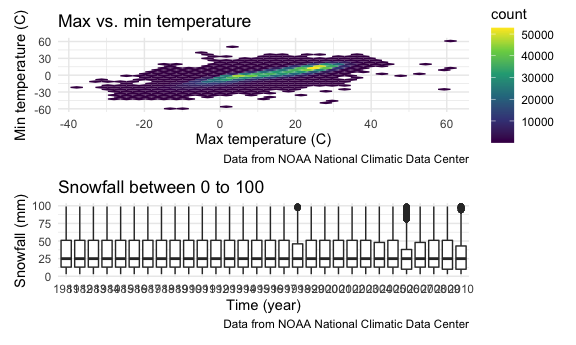
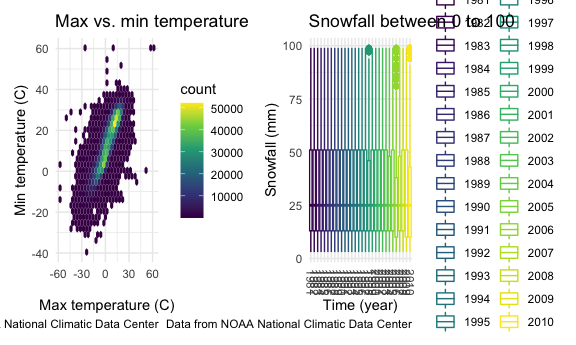
changes to the plots

diff --git a/p8105_hw3_jz3297.md b/p8105_hw3_jz3297.md
@@ -29,7 +29,7 @@ knitr::opts_chunk$set(
   out.width = "90%"
 )
 
-theme_set(theme_minimal() + theme(legend.position = "right"))
+theme_set(theme_minimal() + theme(legend.position = "bottom"))
           
 options(
   ggplot2.continuous.colour = "viridis",
@@ -194,26 +194,77 @@ counts columns. It has a total of 50400 rows and 7 columns.
 
 ``` r
 accel_df %>%
-  group_by(day) %>%
+  group_by(day_id) %>%
   summarize(total_activity = sum(activity_counts)) %>%
-  arrange(desc(total_activity)) %>%
   knitr::kable()
 ```
 
     ## `summarise()` ungrouping output (override with `.groups` argument)
 
-| day       | total\_activity |
-| :-------- | --------------: |
-| Friday    |         2291711 |
-| Wednesday |         2129772 |
-| Thursday  |         2091151 |
-| Sunday    |         1919213 |
-| Monday    |         1858699 |
-| Tuesday   |         1799238 |
-| Saturday  |         1369237 |
+| day\_id | total\_activity |
+| ------: | --------------: |
+|       1 |       480542.62 |
+|       2 |        78828.07 |
+|       3 |       376254.00 |
+|       4 |       631105.00 |
+|       5 |       355923.64 |
+|       6 |       307094.24 |
+|       7 |       340115.01 |
+|       8 |       568839.00 |
+|       9 |       295431.00 |
+|      10 |       607175.00 |
+|      11 |       422018.00 |
+|      12 |       474048.00 |
+|      13 |       423245.00 |
+|      14 |       440962.00 |
+|      15 |       467420.00 |
+|      16 |       685910.00 |
+|      17 |       382928.00 |
+|      18 |       467052.00 |
+|      19 |       371230.00 |
+|      20 |       381507.00 |
+|      21 |       468869.00 |
+|      22 |       154049.00 |
+|      23 |       409450.00 |
+|      24 |         1440.00 |
+|      25 |       260617.00 |
+|      26 |       340291.00 |
+|      27 |       319568.00 |
+|      28 |       434460.00 |
+|      29 |       620860.00 |
+|      30 |       389080.00 |
+|      31 |         1440.00 |
+|      32 |       138421.00 |
+|      33 |       549658.00 |
+|      34 |       367824.00 |
+|      35 |       445366.00 |
 
-The participant had more activity counts for Friday, Wednesday, and
-Thursday.
+``` r
+accel_df %>%
+  group_by(day_id) %>%
+  summarize(total_activity = sum(activity_counts)) %>%
+  arrange(desc(total_activity))
+```
+
+    ## `summarise()` ungrouping output (override with `.groups` argument)
+
+    ## # A tibble: 35 x 2
+    ##    day_id total_activity
+    ##     <dbl>          <dbl>
+    ##  1     16        685910 
+    ##  2      4        631105 
+    ##  3     29        620860 
+    ##  4     10        607175 
+    ##  5      8        568839 
+    ##  6     33        549658 
+    ##  7      1        480543.
+    ##  8     12        474048 
+    ##  9     21        468869 
+    ## 10     15        467420 
+    ## # … with 25 more rows
+
+The participant had the most activity counts on the 16th day and the
+least activity counts on the 31st day.
 
 <br />
 
@@ -221,27 +272,30 @@ Thursday.
 
 ``` r
 accel_df %>%
-  group_by(day, week) %>%
-  summarize(mean_activity_day = mean(activity_counts)) %>%
-  ggplot(aes(x = day, y = mean_activity_day, color = day)) +
-  geom_point() +
-  stat_summary(fun = "mean", color = "red", alpha = 0.6, size = 0.5) +
+  mutate(
+    day = forcats::fct_relevel(day, c("Sunday", "Monday", "Tuesday", "Wednesday", "Thursday", "Friday", "Saturday"))
+    ) %>%
+  group_by(day, minute) %>%
+  ggplot(aes(x = minute, y = activity_counts, color = day)) +
+  geom_point(alpha = 0.15, size = 0.1) +
+  geom_smooth(se = FALSE, size = 0.7) +
   labs(
-    title = "24-hour Activity Plot",
-    x = "Day of the week",
-    y = "Average activity counts (24-hour)",
+    title = "Daily Activity counts plot",
+    x = "Time (hour)",
+    y = "Average activity counts",
     caption = "Data from Advanced Cardiac Care Center of Columbia University Medical Center"
-  )
+  ) +
+  scale_x_continuous(breaks = c(0, 60, 120, 180, 240, 300, 360, 420, 480, 540, 600, 660, 720, 780, 840, 900, 960, 1020, 1080, 1140, 1200, 1260, 1320, 1380, 1440), labels = c("0", "1", "2", "3", "4", "5", "6", "7", "8", "9", "10", "11", "12", "13", "14", "15", "16", "17", "18", "19", "20", "21", "22", "23", "24"))
 ```
 
-    ## `summarise()` regrouping output by 'day' (override with `.groups` argument)
-
-    ## Warning: Removed 7 rows containing missing values (geom_segment).
+    ## `geom_smooth()` using method = 'gam' and formula 'y ~ s(x, bs = "cs")'
 
 <img src="p8105_hw3_jz3297_files/figure-gfm/unnamed-chunk-7-1.png" width="90%" />
 
-This person was more active on Fridays and Wednesdays than other days in
-the week. ?stat\_summary <br />
+This person was more active during 10am to 12pm on Sunday and 8pm to
+10pm on Friday than other times during the week.
+
+<br />
 
 ## Problem 3
 
@@ -289,27 +343,35 @@ ny_noaa %>%
     ## 10     3    8790
     ## # … with 272 more rows
 
-why?
+The most commonly observed values for snowfall is zero. This is because
+New York state in general doesn’t get a lot of snow.
 
 <br />
 
 ##### Make a two-panel plot showing the average max temperature in January and July in each station across years.
 
 ``` r
+month.labs = c("January", "July")
+names(month.labs) = c("01", "07")
+
+
 ny_noaa %>%
   group_by(id, month, year) %>%
   summarize(mean_tmax = mean(tmax)) %>%
   filter(month %in% c("01", "07")) %>%
-  ggplot(aes(x = year, y = mean_tmax)) +
-  geom_boxplot(aes(color = year)) +
-  theme(axis.text.x = element_text(angle = 90, vjust = 0.5, hjust = 1)) +
+  ggplot(aes(x = year, y = mean_tmax, fill = year)) +
+  geom_boxplot() +
+  theme(axis.text.x = element_text(angle = -90, vjust = 0.5, hjust = 1)) +
     labs(
-    title = "Average max temperature in January and July",
+    title = "Average max temperature in New York, January vs. July",
     x = "Time (year)",
     y = "Average max temperature (C)",
     caption = "Data from NOAA National Climatic Data Center"
   ) +
-  facet_grid(. ~ month)
+  facet_grid(
+    . ~ month,
+    labeller = labeller(month = month.labs)
+    )
 ```
 
     ## `summarise()` regrouping output by 'id', 'month' (override with `.groups` argument)
@@ -327,33 +389,34 @@ Is there any observable/interpretable structure? outliers?
 ``` r
 tmax_tmin_p =
   ny_noaa %>%
-  ggplot(aes(x = tmax, y = tmin)) +
+  ggplot(aes(x = tmin, y = tmax)) +
   geom_hex() +
     labs(
     title = "Max vs. min temperature",
     x = "Max temperature (C)",
     y = "Min temperature (C)",
     caption = "Data from NOAA National Climatic Data Center"
-  )
+  ) +
+  theme(legend.position = "right")
 
 snow_p =
   ny_noaa %>%
   filter(snow > 0 & snow < 100) %>%
-  ggplot(aes(x = year, y = snow)) +
+  ggplot(aes(x = year, y = snow, color = year)) +
   geom_boxplot() +
+  theme(axis.text.x = element_text(angle = -90, vjust = 0.5, hjust = 1)) +
       labs(
     title = "Snowfall between 0 to 100",
     x = "Time (year)",
     y = "Snowfall (mm)",
     caption = "Data from NOAA National Climatic Data Center"
-  )
+  ) +
+    theme(legend.position = "right")
 
 
-tmax_tmin_p / snow_p
+tmax_tmin_p + snow_p
 ```
 
     ## Warning: Removed 1136276 rows containing non-finite values (stat_binhex).
 
 <img src="p8105_hw3_jz3297_files/figure-gfm/unnamed-chunk-11-1.png" width="90%" />
-
-?legend
